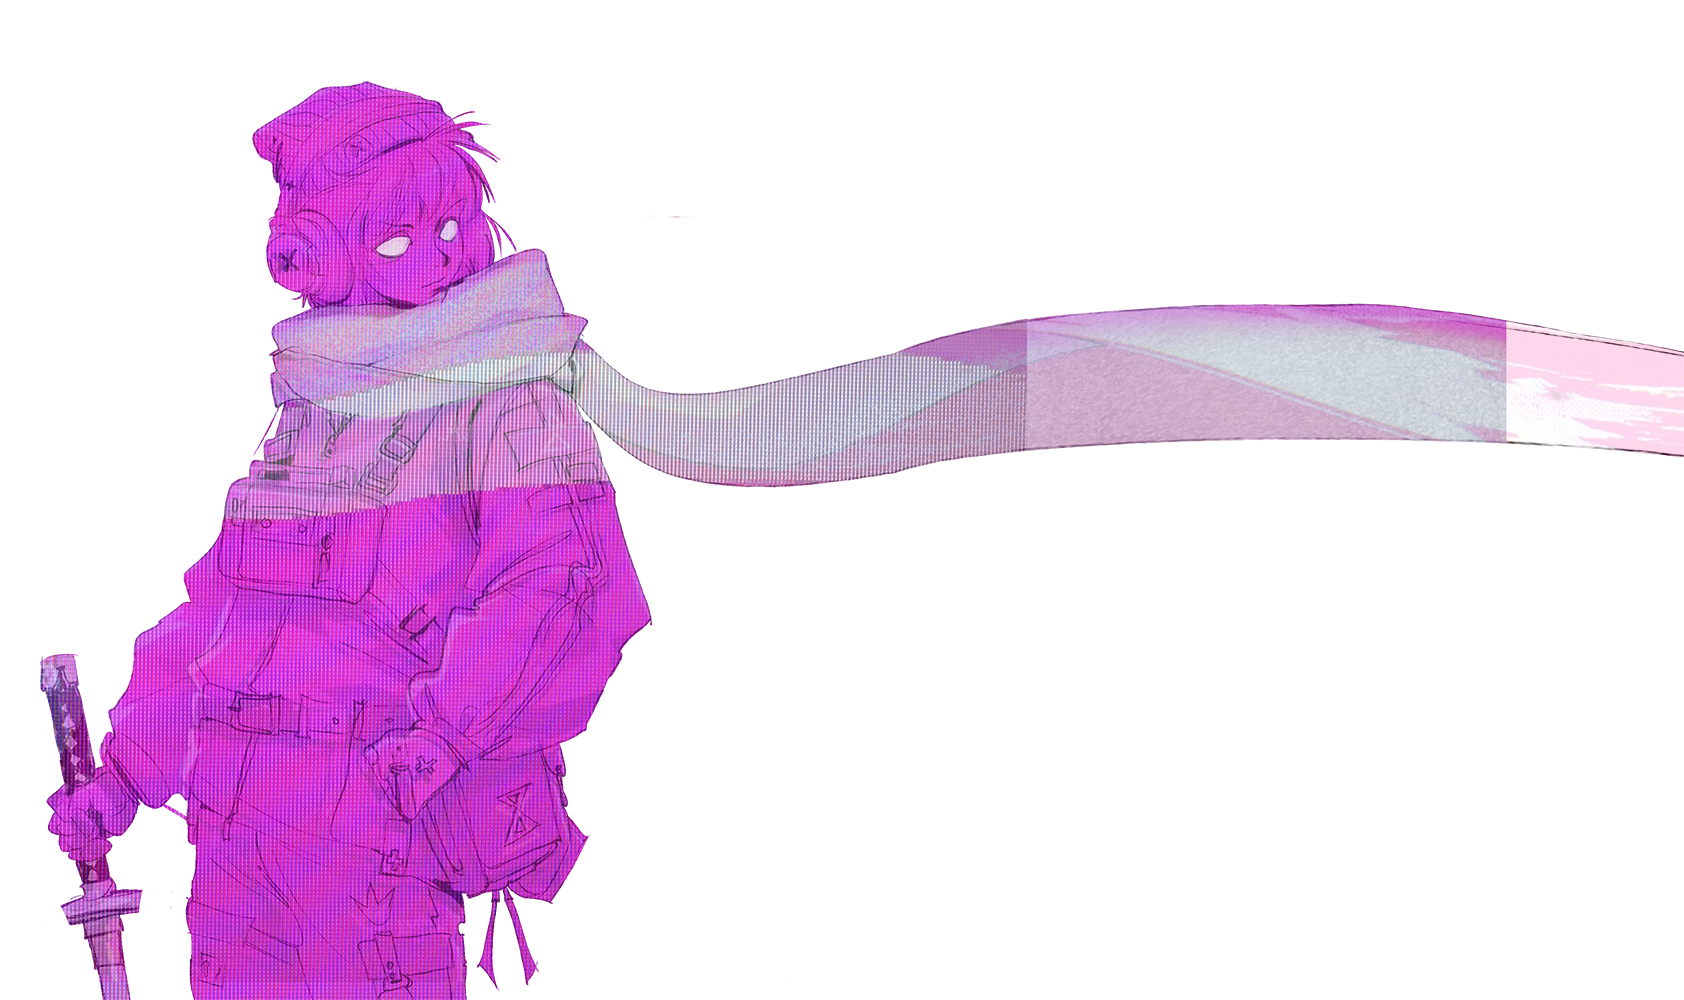
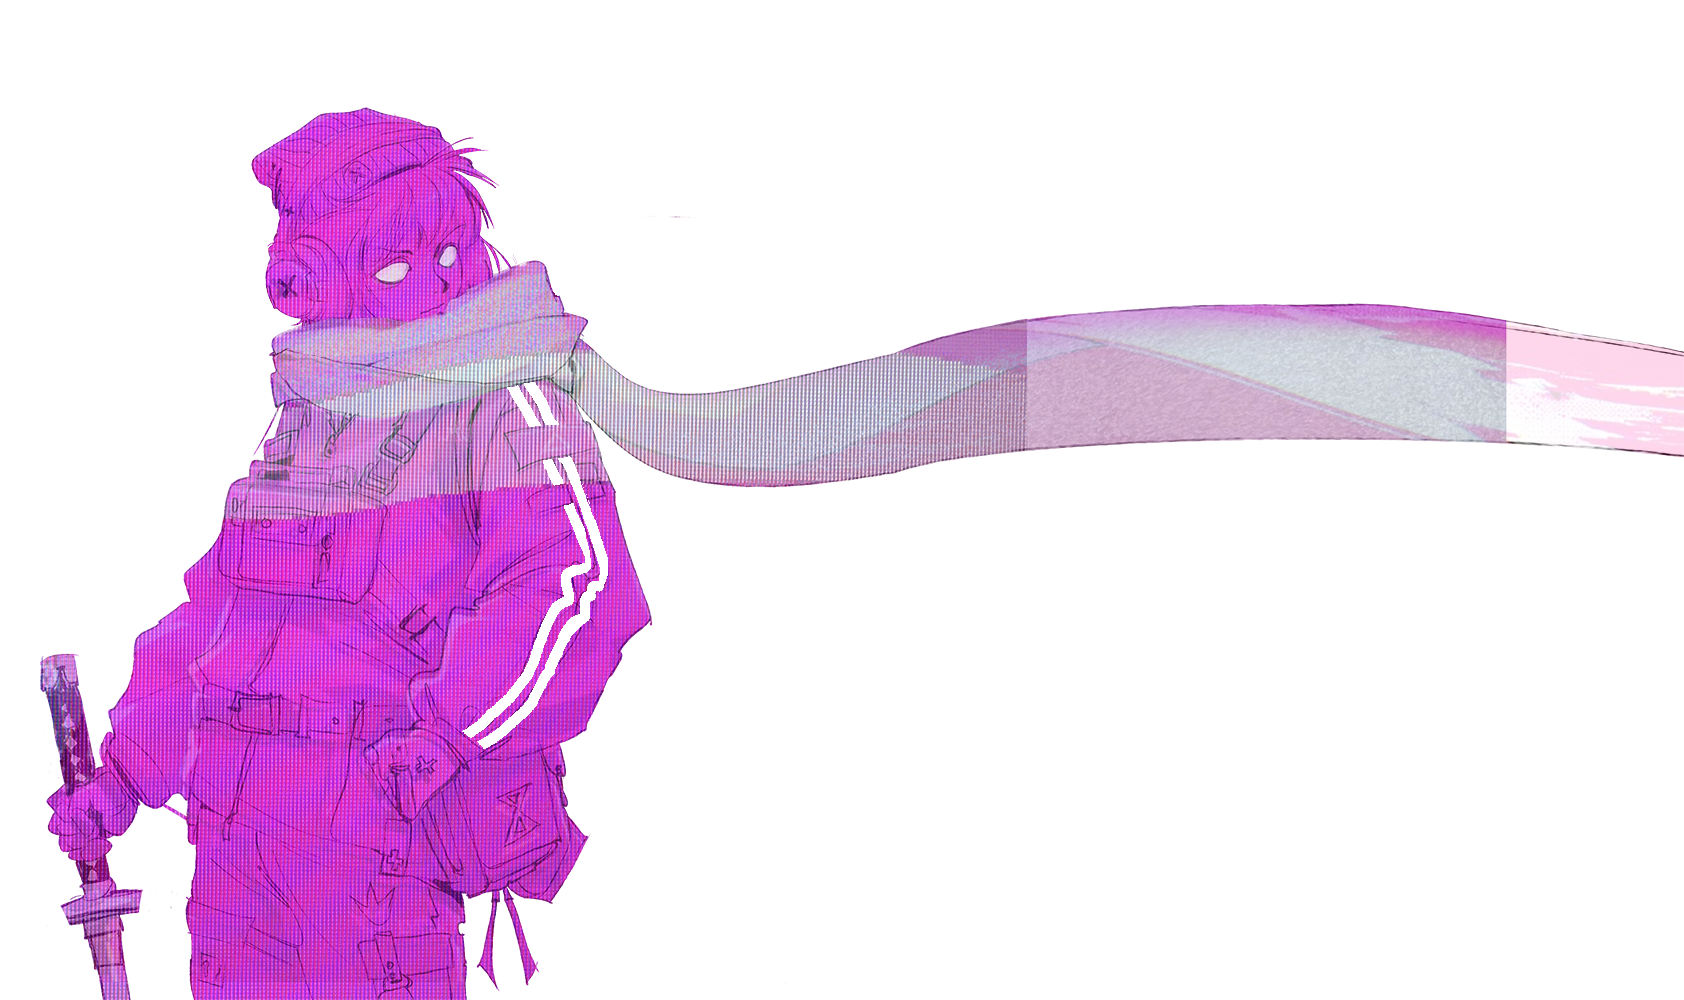
fix 5

Changed region(s): [[0.1235, 0.062, 0.3397, 0.372], [0.2779, 0.465, 0.3705, 0.744], [0.3088, 0.372, 0.3397, 0.434]]

diff --git a/game3-dash/src/style.css b/game3-dash/src/style.css
@@ -1453,7 +1453,7 @@ body {
   width: min(131.6vw, 801px);
   min-height: clamp(172px, 40vh, 458px);
   max-height: clamp(172px, 40vh, 458px);
-  transform: translateX(-50%) translateY(10px);
+  transform: translateX(-50%);
   transform-origin: center bottom;
   pointer-events: none;
   user-select: none;
@@ -1494,6 +1494,8 @@ body {
   object-fit: contain;
   object-position: center bottom;
   vertical-align: bottom;
+  transform: translateY(10%);
+  transform-origin: center bottom;
   pointer-events: none;
   user-select: none;
   filter: drop-shadow(0 8px 22px rgba(0, 0, 0, 0.42));